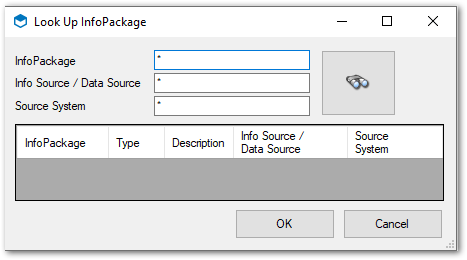
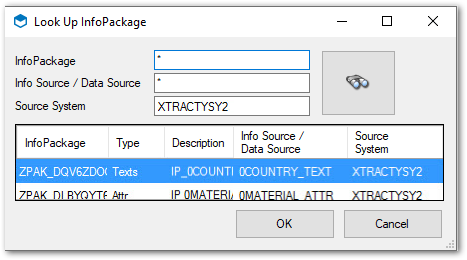
Deu: Xtract Defining, Teil 2

Changed region(s): [[0.03, 0.5846, 0.9593, 0.7692], [0.3298, 0.3692, 0.5096, 0.4308]]

diff --git a/_includes/_content/de/xis-specific/bwcube/cubes-suchen.md b/_includes/_content/de/xis-specific/bwcube/cubes-suchen.md
@@ -1,20 +1,23 @@
-Zunächst einmal wird mindestens ein gültiger Verbindungsmanager benötigt, der mit einem SAP BW System verbunden ist (siehe Abschnitt [Verbindungsmanager](../sap-verbindung/verbindungsmanager) ).<br>
-Um einen Cube für die Extraktion zu suchen, öffnen Sie mit einem Doppelklick die Datenquelle, so dass der Editor erscheint und klicken Sie auf den Button mit dem Fernglas.
-
+### Eine BW Cube Exktraktion definieren
+1. Ein gültiger Verbindungsmanager, der mit einem SAP-System verbunden ist, ist Voraussetzung für das Erstellen einer Extraktion (siehe Abschnitt [Verbindungsmanager](../sap-verbindung/verbindungsmanager)).<br>
+2. Klicken Sie doppelt auf das **[Icon]**. Das Fenster "Extract SAP BW/BEx Queries and Multidimensional Info Providers" öffnet sich.
+3. Klicken Sie auf das **[Lupensymbol]**.
 ![Bw-Cube-Data-Source](/img/content/Bw-Cube-Data-Source.png){:class="img-responsive"}
+Das Suchfenster "Look Up Cube or Query" öffnet sich.
 
-Sie können mit Wildcards (also * ) entweder in den verfügbaren InfoCubes oder in den verfügbaren BEx Queries suchen. Sobald Sie den richtigen Cube gefunden haben, markieren Sie ihn und bestätigen Sie mit *OK*.
+### Eine BW Cube oder Query Extraktion finden
+![Query-LookUp](/img/content/Query-LookUp.png){:class="img-responsive" }
 
-![Query-LookUp](/img/content/Query-LookUp.png){:class="img-responsive"}
-
-Nachdem ein Cube gewählt wurde, finden Sie auf der linken Seite hierarchisch angeordnet die Kennzahlen (Ordner Key Figures), die Dimensionen und deren Eigenschaften (jeweils im Unterordner Properties jeder Dimension). Um einzelne Parameter für die Extraktion zu wählen, ziehen Sie den gewünschten Knoten per Drag & Drop von der Baumanzeige in die Tabelle rechts.<br>
-Bitte beachten Sie, dass die jeweilige Dimension automatisch mit selektiert wird, auch wenn Sie nur eine einzelne Eigenschaft hinüberziehen.
-
+4. Wählen Sie *InfoCubes* oder *QueryCubes*.
+5. Durch Eingabe eines Suchnamens in das Feld **Cube Name**, können Sie die Suche einschränken. Starten Sie die Suche duch klicken auf das **[Lupensymbol]**. Sie können Platzhalter verwenden(*), wenn gewünscht.
+6. Wählen Sie ein Element aus der Liste aus. 
+7. Klicken Sie auf **[OK]**, um die Auswahl zu bestätigen.
 ![Cube-Details](/img/content/Cube-Details.png){:class="img-responsive"}
 
+Auf der linken Seite des Editors werden alle Dimensionen, Maße und Dimensionseigenschaften angezeigt. Die Kennzahlen (Ordner Key Figures) und Properties (Eigenschaften) jeder Dimension werden hierarchisch in einer Baumansicht dargestellt.<br>
 
-Sobald mindestens eine Kennzahl gewählt ist, können Sie mit dem *Preview*-Button die Ergebnis-Tabelle erstellen lassen. Der interessierte Nutzer kann auch den Show MDX-Link im oberen Bereich anklicken. Dann wird das jeweilige, automatisch generierte MDX-Statement angezeigt.
+8. Um einzelne Parameter für die Extraktion zu wählen, ziehen Sie den gewünschten Knoten per Drag & Drop von der Baumanzeige in die Tabelle rechts. Bitte beachten Sie, dass die jeweilige Dimension automatisch mit selektiert wird, auch wenn Sie nur eine einzelne Eigenschaft hinüberziehen. Wenn Sie die Eigenschaft einer Dimension wählen, die noch nicht in der Ergebnismenge enthalten ist, wird die Dimension automatisch mit hinzugefügt.
+9. Um alle Eigenschaften einer Dimension oder alle Kennzahlen auszuwählen, klicken Sie mit der rechten Maustaste auf den entsprechenden Knoten und wählen Sie die Option *Select for Output*.
+9. Sobald mindestens eine Kennzahl gewählt ist, können Sie mit der Schaltfläche **[Preview}]** die Ergebnis-Tabelle erstellen.
+10. Um das MDX-Statement zu sehen, das im Hintergrund generiert wird, klicken Sie auf den Link **[MDX anzeigen]** am oberen Rand des Editors. Dies dient aber nur zur Information.
 
-Um alle Eigenschaften einer Dimension oder alle Kennzahlen zu selektieren, klicken Sie mit der rechten Maustaste auf den entsprechenden Knoten und wählen Sie die Option *Select for Output*.
-
-Der interessierte Nutzer kann auch den Show MDX-Link im oberen Bereich anklicken. Dann wird das jeweilige, automatisch generierte MDX-Statement angezeigt. Dies dient aber nur zur Information.

diff --git a/_includes/_content/de/xis-specific/hierarchy/hierarchy-settings.md b/_includes/_content/de/xis-specific/hierarchy/hierarchy-settings.md
@@ -1,16 +1,8 @@
-Über den Settings-Link im Editor öffnet sich das Einstellungsfenster.
+Über den *Settings*-Link im Editor öffnet sich das Einstellungsfenster.
 
 ![XIS_BWHierarchy_settings](/img/content/XIS_BWHierarchy_settings.png){:class="img-responsive"}
 
-**Automatic String Conversion**<br>
-bedeutet, dass die Datenquelle alle Strings nach NVarChar konvertiert, wenn SAP ein Unicode-System ist, und nach VarChar, wenn SAP kein Unicode-System ist.
-
-**Convert Strings to VarChar**<br>
-bedeutet, dass die Datenquelle alle Strings nach VarChar konvertiert.
-
-**Convert Strings to NVarChar**<br>
-bedeutet, dass die Datenquelle alle Strings nach NVarChar konvertiert.
-
+### Extraction settings
 
 **Representation**
 
@@ -27,17 +19,28 @@ bedeutet, dass die zugehörigen Stammdaten-Texte in der jeweiligen Anmeldesprach
 **Legacy Mode**<br>
 wenn die Option aktiviert ist, werden weder Links noch Intervalle aufgelöst noch ungültige Knoten bei Hierarchien mit zeitabhängiger Struktur herausgefiltert und die Node-Ids genau so übetragen, wie sie im SAP in der Tabelle stehen.
 
-**Natural Representation Settings**<br>
+### String conversion
+**Automatic String Conversion**<br>
+bedeutet, dass die Datenquelle alle Strings nach NVarChar konvertiert, wenn SAP ein Unicode-System ist, und nach VarChar, wenn SAP kein Unicode-System ist.
+
+**Convert Strings to VarChar**<br>
+bedeutet, dass die Datenquelle alle Strings nach VarChar konvertiert.
+
+**Convert Strings to NVarChar**<br>
+bedeutet, dass die Datenquelle alle Strings nach NVarChar konvertiert.
+
+
+### Natural Representation Settings
 ist nur aktiv, wenn Representation den Wert *Natural/flattened* hat.
 
 **Level count**<br>
-Legt die maximale Anzahl der Ebenen fest, falls die Representation Natural gewählt ist. Im nächsten Screenshot sehen Sie die obige Hierarchie in der Repräsentation Natural mit 5 Ebenen.
+Legt die maximale Anzahl der Ebenen fest, falls die Representation Natural gewählt ist.
 
 **Leaves only**<br>
 liefert nur für die Blätter jeweils einen eigenen Datensatz.
 
 **Fill empty levels**<br>
-Es wird das unterste Element in der Hierarchie bis in die letzte Ebene kopiert. Im nächsten Screenshot sehen Sie die obige Hierarchie in der Repräsentation Natural mit 5 Ebenen und der Option Repeat Leaves.
+Es wird das unterste Element in der Hierarchie bis in die letzte Ebene kopiert.
 
 **Description texts for levels**<br>
 bedeutet, dass für jedes Level-Feld *LevelN* das Feld *LevelTextN* ausgegeben wird, welches den Stammdaten-Text in der jeweiligen Anmeldesprache enthält. 

diff --git a/_includes/_content/de/xis-specific/bw-loader/infopackages-suchen.md b/_includes/_content/de/xis-specific/bw-loader/infopackages-suchen.md
@@ -1,5 +1,15 @@
-Nachdem ein Xtract-Verbindungsmanager angelegt wurde (siehe [Verbindungsmanager](../sap-verbindung/verbindungsmanager) ) kann der Editor der Loader-Komponente geöffnet werden (Doppelklick). Mit Hilfe der Suchen-Funktion (Fernglas) kann nun ein geeignetes InfoPackage selektiert werden.
+### Eine BW Loader Extraction definieren
+1. Ein gültiger Verbindungsmanager, der mit einem SAP-System verbunden ist, ist Voraussetzung für das Erstellen einer Extraktion (siehe Abschnitt [Verbindungsmanager](../sap-verbindung/verbindungsmanager)).<br>
+2. Klicken Sie doppelt auf das **[Icon]**. Das Fenster "Write to SAP BW" öffnet sich.
+3. Klicken Sie auf das **[Lupensymbol]**.
+![BWLoader-Configuration-00](/img/content/BWLoader-Configuration-00.png){:class="img-responsive"}
+Das Suchfenster "Look Up InfoPackage" öffnet sich.
+![BWLoader-Configuration-10](/img/content/BWLoader-Configuration-10.png){:class="img-responsive"}
 
-Die Suche findet InfoPackages, die auf dem 3.x und 7.x Datenfluss beruhen.
+### Ein InfoPackage finden
+4. Suchen Sie nach *InfoPackage*, *Info Source* oder *Source System* mit dem **[Lupensymbol]**, Sie können bei Bedarf Platzhalter (*) verwenden.
+4. Wählen Sie ein Element aus der Liste aus. 
+5. Klicken Sie auf **[OK]**, um die Auswahl zu bestätigen.
 
-![XIS_BWL_IP_Lookup](/img/content/XIS_BWL_IP_Lookup.png){:class="img-responsive"}
+ Die Suche findet InfoPackages, die entweder auf 3.x oder 7.x Datenfluss basieren.
+![BWLoader-Configuration-01](/img/content/BWLoader-Configuration-01.png){:class="img-responsive"}

diff --git a/_includes/_content/en/xis-specific/bw-cube/bw-cube-extraction-define.md b/_includes/_content/en/xis-specific/bw-cube/bw-cube-extraction-define.md
@@ -5,7 +5,7 @@
 3. Click on the **[binocular button]**.
 ![Bw-Cube-Data-Source](/img/content/Bw-Cube-Data-Source.png){:class="img-responsive" }
 
-	The search dialoge "Look Up Cube or Query" opens.
+	The search dialog "Look Up Cube or Query" opens.
 
 ### Looking up a BW Cube or Query
 ![Query-LookUp](/img/content/Query-LookUp.png){:class="img-responsive" }
@@ -19,6 +19,6 @@
 On the left-hand side of the editor all dimensions, measures and dimension properties are shown. These parameters are presented hierarchically in a tree view.
 
 8. To extract one or more of these cube elements, drag and drop them to the grid on the right-hand side. If you are choosing the property of a dimension that is not yet contained in the result set, the dimension will be added automatically as well.
-9. If one or more measure is seleted, the button **[Preview}]** is activated.
-10. To see the MDX statement that is generated in the background, click the **[Show MDX]** link at the top of the editor.
-11. To select all the properties of a dimension or all key figures, right-click on the corrrespondent node and select the option *Select* for *Output*.
+9. To select all the properties of a dimension or all key figures, right-click on the corrrespondent node and select the option *Select* for *Output*.
+10. If one or more measure is seleted, the button **[Preview}]** is activated.
+11. To see the MDX statement that is generated in the background, click the **[Show MDX]** link at the top of the editor. 

diff --git a/_includes/_content/de/xis-specific/bw-loader/bw-loader-settings.md b/_includes/_content/de/xis-specific/bw-loader/bw-loader-settings.md
@@ -1,9 +1,8 @@
-
-Über den Settings-Link im Editor öffnet sich das Einstellungsfenster.
+Über den *Settings*-Link im Editor öffnet sich das Einstellungsfenster.
 
 ![XIS_BWL_Settings](/img/content/XIS_BWL_Settings.png){:class="img-responsive"}
 
-
+### General
 **Package Size**<br>
 definiert, wieviel Datensätze auf einen Rutsch in das BW geladen werden sollen. Je nachdem, welche Folgeaktivitäten im BW für dieses InfoPackage hinterlegt sind, können Werte zwischen 2000 und 20000 sinnvoll sein.
 
@@ -13,6 +12,7 @@ Wenn diese Option angehakt ist, wartet die Komponente auf die vollständige Verb
 **Trigger Process Chain after Upload**<br>
 Ist in dieses Textfeld der Name einer BW-Prozesskette eingetragen, wird diese nach dem Ladevorgang automatisch gestartet.
 
+### SAP BI 3rd party notification
 **No InfoPackage Start (Only Wait)**<br>
 Standardmäßig wird das InfoPackage beim Starten des SSIS-Packete ebenfalls mit gestartet. Wenn diese Option gesetzt ist, passiert das nicht. Die Komponente wartet dann, bis das Infopackage im BW von Hand gestartet wurde.
 
@@ -22,6 +22,7 @@ Siehe Abschnitt [Externe Benachrichtigung](./externe-benachrichtigung)
 **Request ID variable**<br>
 Siehe Abschnitt [Externe Benachrichtigung](./externe-benachrichtigung)
 
+### Performance Improvement
 **Debug Details**<br>
 Erzeugt mehr und detailliertere Protokolleinträge, die für die Fehlersuche genutzt werden können.
 

diff --git a/_includes/_content/de/xis-specific/hierarchy/hierarchien-suchen.md b/_includes/_content/de/xis-specific/hierarchy/hierarchien-suchen.md
@@ -1,8 +1,11 @@
-Mit einem Doppelklick auf die Datenflusskomponente öffnet sich der Editor. Mit einem weiteren Klick auf den Button mit dem Fernglas öffnet sich das Such-Fenster. Mit Hilfe von Wildcards (* als Platzhalter) kann eine Hierarchie selektiert werden.
+### Eine BW Hierarchie Extraktion definieren
+1. Klicken Sie doppelt auf das **[Icon]**. Das Fenster "Extract SAP BW Hierarchies" öffnet sich.
+2. Klicken Sie auf das **[Lupensymbol]**. Das Suchfenster "Look Up Hierarchy" öffnet sich.
+ ![Hierarchy-Search-01](/img/content/Hierarchy-Search-01.png){:class="img-responsive"} 
 
-![Hierarchy-Search-01](/img/content/Hierarchy-Search-01.png){:class="img-responsive"} 
-
-
-Nach der Selektion speichert die Komponente alle relevanten Daten, die für die spätere Extraktion benötigt werden:
+### BW Hierarchie finden
+3. Suchen Sie nach *Hierarchy Name* oder *InfoObject* mit dem **[Lupensymbol]**, Sie können bei Bedarf Platzhalter (*) verwenden.
+4. Wählen Sie ein Element aus der Liste aus. 
+5. Klicken Sie auf **[OK]**, um die Auswahl zu bestätigen. Nachdem Sie Ihre Auswahl getroffen haben, speichert die Komponente alle relevanten Daten, die für eine spätere Extraktion benötigt werden:
 
 ![Hierarchy-Search-02](/img/content/Hierarchy-Search-02.png){:class="img-responsive"}

diff --git a/_includes/_content/de/xis-specific/bwcube/bw-cube-settings.md b/_includes/_content/de/xis-specific/bwcube/bw-cube-settings.md
@@ -3,7 +3,7 @@
 ![XIS_BWCube_Settings](/img/content/XIS_BWCube_Settings.png){:class="img-responsive"}
 
 
-***String Conversion***
+### String Conversion
 
 **Automatic String Conversion** <br>
 bedeutet, dass die Datenquelle alle Strings nach NvarChar konvertiert, wenn SAP ein Unicode-System ist, und nach VarChar, wenn SAP kein Unicode-System ist.
@@ -15,7 +15,7 @@ bedeutet, dass die Datenquelle alle Strings nach VarChar konvertiert.
 bedeutet, dass die Datenquelle alle Strings nach NVarChar konvertiert.
 
 
-***Misc***
+### Misc
 
 **Do not tread 'Axis has no rows' as Error** <br>
 Definiert, ob ein leeres Ergebnis (keine Daten selektiert) einen Fehler auslöst oder nicht.
@@ -45,7 +45,7 @@ Wählen Sie eine geeignete Dimension für das Slicing, bei größeren Datenmenge
 Betrifft BW Cube Extraktionen, die mit Xtract IS Version 2.5.17 oder früher erstellt wurden. Sollten Sie die Metadaten der Extraktion aktualisieren, sollten Sie vorher dieses Feld anhaken. Das betrifft insbesondere BEx Queries, die zwei Strukturen enthalten (Merkmals- und Kennzahlenstruktur), da sich der Metadatenabruf seit oben genannter Version geändert hat.
  
 
-***Extraction Type***
+### Extraction Type
 
 **Regular** <br>
 extrahiert die Daten über die MDX-Schnittstelle. 

diff --git a/_includes/_content/en/xis-specific/hierarchy/settings.md b/_includes/_content/en/xis-specific/hierarchy/settings.md
@@ -33,12 +33,13 @@ All strings are converted to NVarChar regardless of whether the source system is
 is active only, when Representation has the value *Natural/flattened*.
 
 **Level Count**<br>
-Defines the maximum number of levels if the representation natural is selected. In the following screenshot you see the hierarchie shown in the previous screenshot with five levels in the representation natural.
+Defines the maximum number of levels if the representation natural is selected.
 
 **Leaves only**<br>
 Delivers only the leaves as data records.
 
-**Fill empty levels**
+**Fill empty levels**<br>
+The lowest element in the hierarchy is copied to the last level.
 
 **Description texts for levels**<br>
 Means, that the output has a field LevelTextN for each field LevelN, that contains the text based on the system language settings.

diff --git a/content/_de/xtract-for-alteryx/bw-hierarchien/hierarchien-als-datenquelle-definieren.md b/content/_de/xtract-for-alteryx/bw-hierarchien/hierarchien-als-datenquelle-definieren.md
@@ -1,7 +1,7 @@
 ---
 ref: xfa-bwhier-define
 layout: page
-title: BW Hierarchy als Datenquelle definieren
+title: Eine BW Hierarchie Extraktion definieren
 description: Hierarchien als Datenquelle definieren
 product: xtract-for-alteryx
 parent: bw-hierarchien
@@ -21,7 +21,7 @@ progressstate: 5
 
 Klicken auf **[[Extraction Settings](./hierarchie-extraktionseinstellungen)]**, um die Hierarchieeinstellungen zu definieren.
 
-### Echtzeitvorschau der ausgewählten Hierarchie anzeigen
+### Ausgewählte BW Hierarchie in Echtzeitvorschau
 Klicken Sie auf **[Load live preview]** (6), um eine Echtzeitvorschau anzuzeigen, ohne eine Extraktion auszuführen.<br>
 
 ![Define-Data-Source-Hierarchy](/img/content/extractors.bwhier/Define-Data-Source-Hierarchy.png){:class="img-responsive"}

diff --git a/_includes/_content/de/xis-specific/xtract-is-bapi/bapis-suchen.md b/_includes/_content/de/xis-specific/xtract-is-bapi/bapis-suchen.md
@@ -1,6 +1,6 @@
 ### Eine BAPI Exktraktion definieren
 1. Mindestens ein gültiger Verbindungsmanager, der mit einem SAP-System verbunden ist, ist Voraussetzung für das Erstellen einer Extraktion (siehe Abschnitt [Verbindungsmanager](../sap-verbindung/verbindungsmanager)).
-2. Klicken Sie doppelt auf das **[Programmsymbol]**. Das Fenster "Read and Write with SAP BAPIs of Function Modules" öffnet sich.
+2. Klicken Sie doppelt auf das **[Icon]**. Das Fenster "Read and Write with SAP BAPIs of Function Modules" öffnet sich.
 3. Klicken Sie auf das **[Lupensymbol]**.
 ![BAPI-Editor](/img/content/BAPI-Editor.png ){:class="img-responsive"}
 

diff --git a/_includes/_content/en/xis-specific/bapi/look-up-bapis.md b/_includes/_content/en/xis-specific/bapi/look-up-bapis.md
@@ -5,7 +5,7 @@
 3. Click on the **[binocular button]**.
 ![BAPI-Editor](/img/content/BAPI-Editor.png){:class="img-responsive"}
  
-The search dialoge "Look Up BAPI" opens.
+The search dialog "Look Up BAPI" opens.
 
 ### Looking up a BAPI
 ![BAPI-Search](/img/content/BAPI-Search.png){:class="img-responsive"}

diff --git a/content/_de/xtract-is-for-azure/bwcube/cubes-suchen.md b/content/_de/xtract-is-for-azure/bwcube/cubes-suchen.md
@@ -1,7 +1,7 @@
 ---
 ref: xia-bw-cube-01
 layout: page
-title: Eine BW Cube-Quelle suchen
+title: Eine BW Cube Extraktion definieren
 description: Eine BW Cube-Quelle suchen
 product: xtract-is-for-azure
 parent: bw-cube
